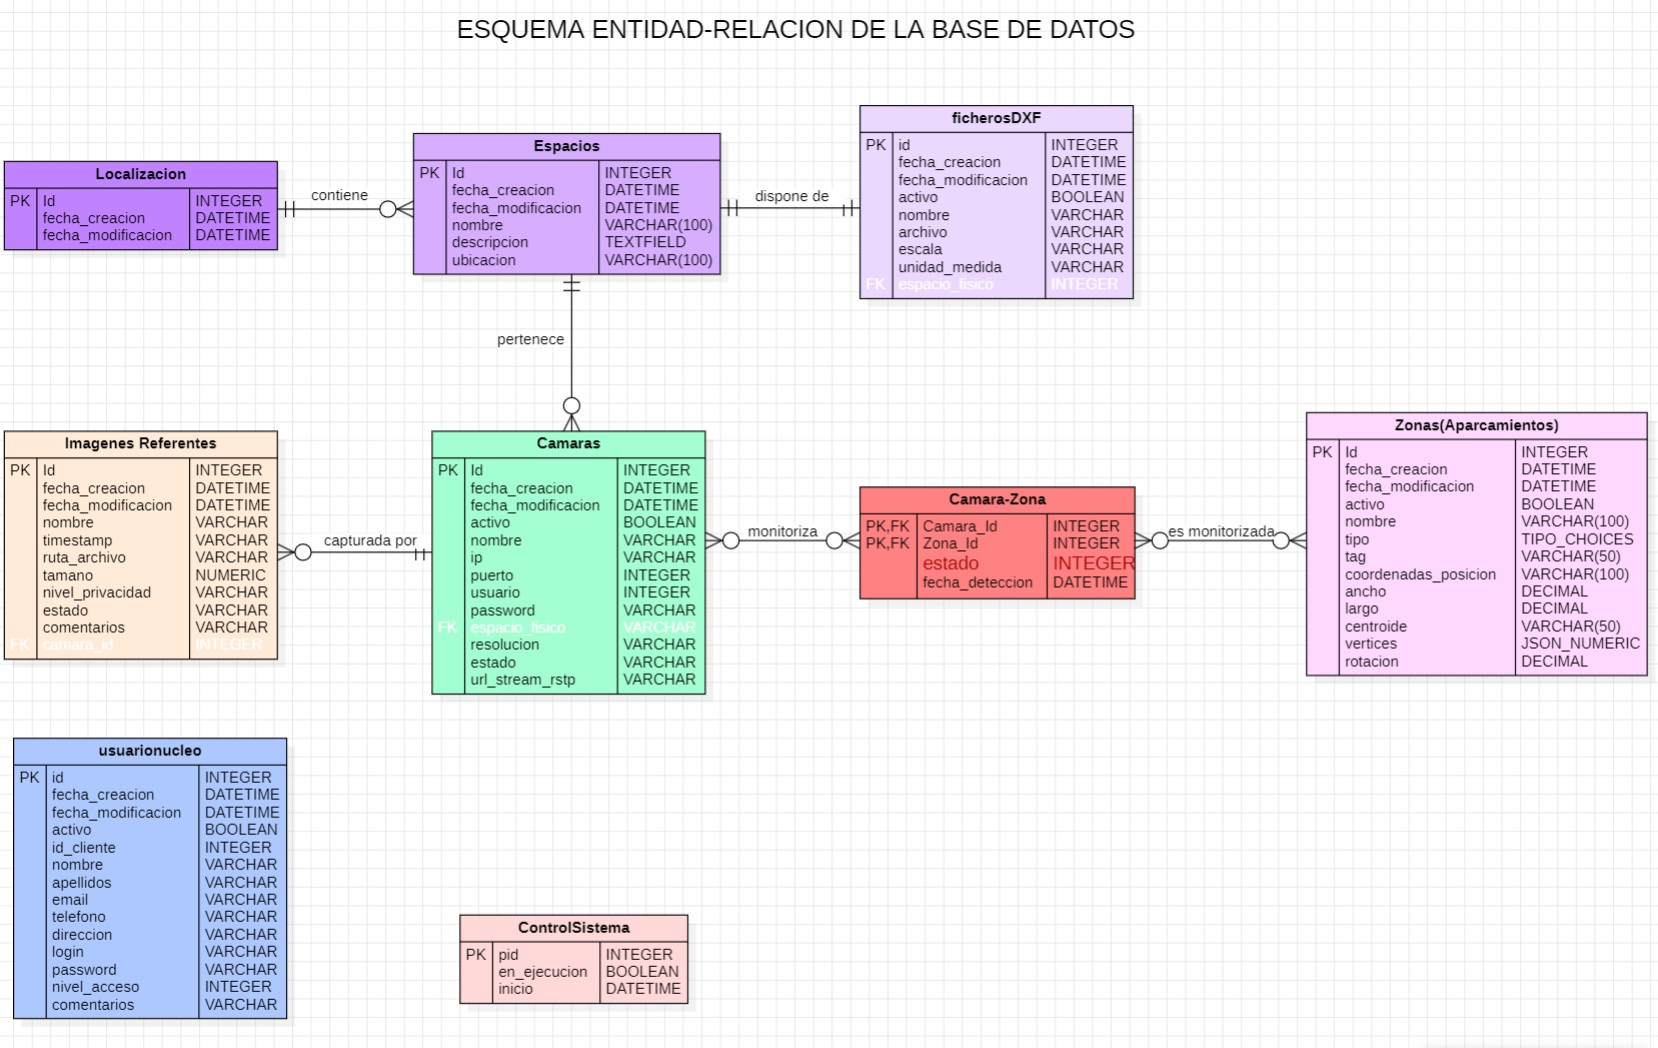
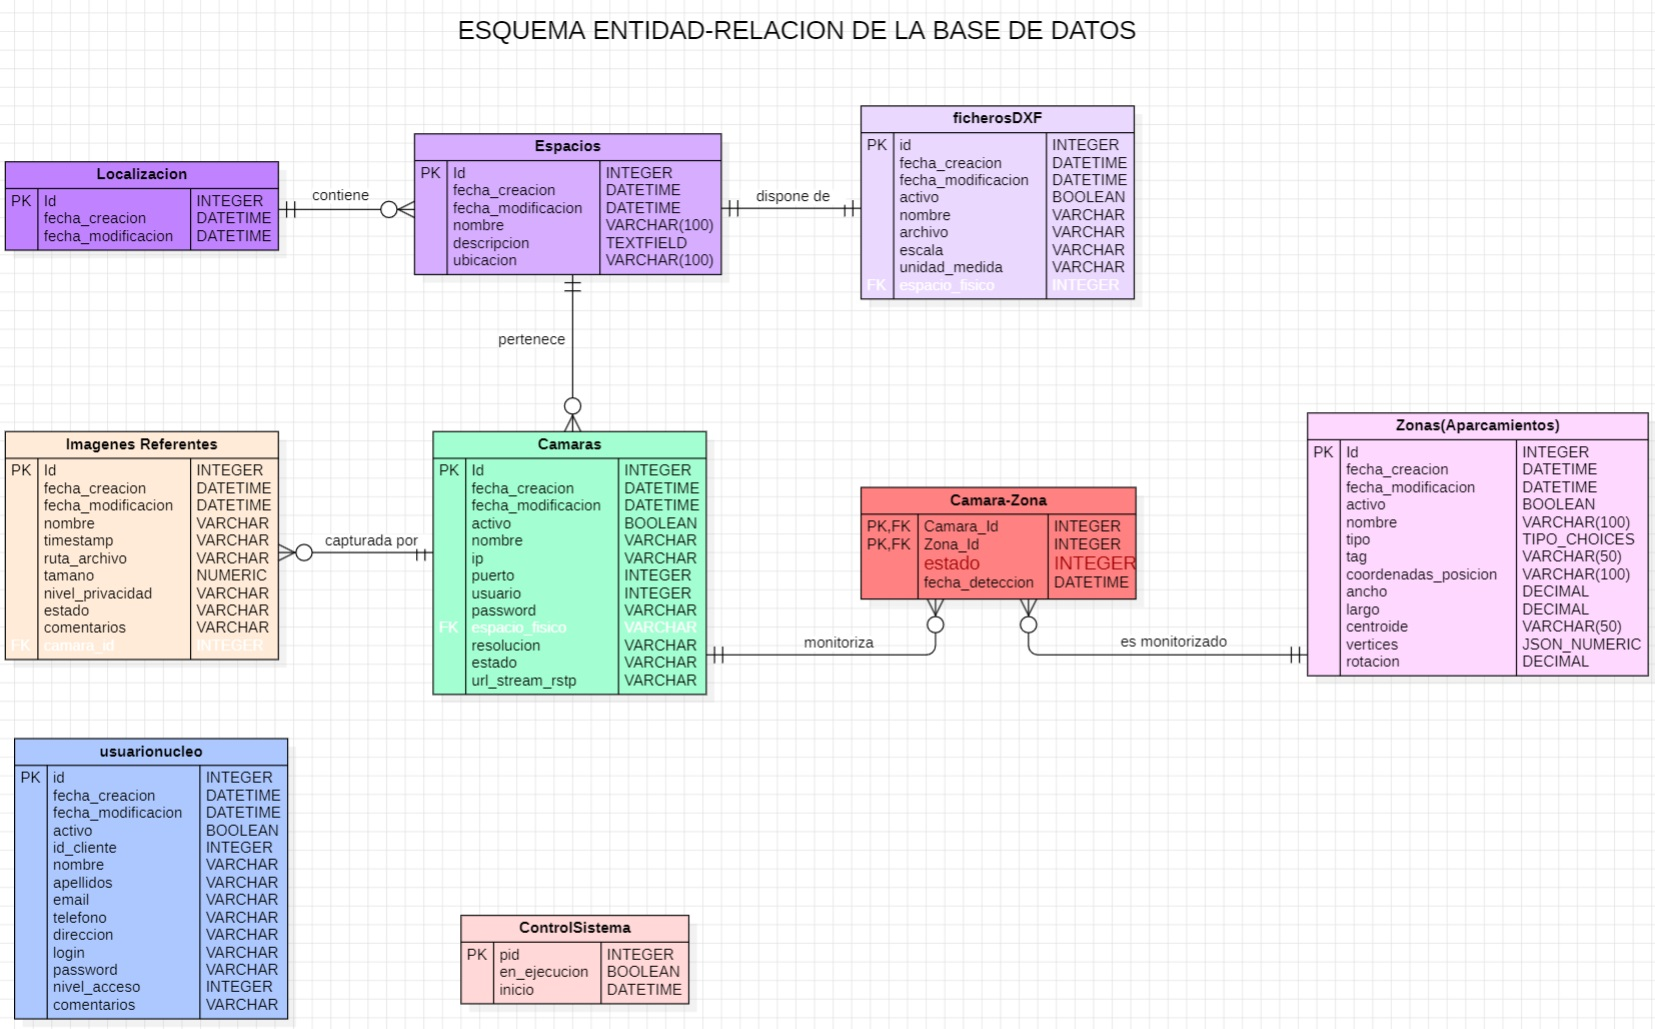
Añadidas nuevas funciones a views.py y actualizacion de diseño de BD.

diff --git a/Codigo/apps/usuarios/views.py b/Codigo/apps/usuarios/views.py
@@ -179,5 +179,107 @@ def lista_usuarios(request):
         'nivel_admin': nivel_admin,
     })
 
+def crear_usuario(request):
+    """Crea un nuevo usuario del sistema (solo para administradores)."""
+    
+    if request.session.get('usuario_nivel', 0) != 2:
+        messages.error(request, 'Solo los administradores pueden crear usuarios.')
+        return redirect('usuarios:lista')
+
+    if request.method == 'POST':
+        form = UsuariosForm(request.POST)
+
+        if form.is_valid():
+            # Recuperar email/login y verificar duplicados antes de guardar
+            email = form.cleaned_data.get('email')
+            login = form.cleaned_data.get('login')
+
+            if Usuarios.objects.filter(email=email).exists():
+                form.add_error('email', 'Este correo electrónico ya está registrado.')
+                return render(request, 'usuarios/crear.html', {'form': form})
+
+            if Usuarios.objects.filter(login=login).exists():
+                form.add_error('login', 'Este nombre de usuario ya está en uso.')
+                return render(request, 'usuarios/crear.html', {'form': form})
+
+            # Guarda en memoria pero no en BD todavia
+            usuario = form.save(commit=False)
+
+            # Procesa la contraseña
+            password = form.cleaned_data.get('nueva_password')
+            if password:
+                usuario.password = make_password(password)  # Hashea la contraseña
+            else:
+                usuario.password = make_password('changeme123')  # Default si no puso nada
+
+            usuario.save()
+
+            messages.success(request, f'Usuario {usuario.nombre} creado correctamente.')
+            return redirect('usuarios:lista')
+    else:
+        form = UsuariosForm()
+
+    return render(request, 'usuarios/crear.html', {'form': form})
+    
+    
+
+def editar_usuario(request, pk):
+    """Edita un usuario existente (solo administradores)."""
+    
+    if request.session.get('usuario_nivel', 0) != 2:
+        messages.error(request, 'Solo los administradores pueden editar usuarios.')
+        return redirect('usuarios:lista')
+
+    usuario = get_object_or_404(Usuarios, pk=pk)
+
+    if request.method == 'POST':
+        form = UsuariosForm(request.POST, instance=usuario)
+
+        if form.is_valid():
+            # Recuperar email/login y verificar duplicados antes de guardar (excluyendo el propio usuario)
+            email = form.cleaned_data.get('email')
+            login = form.cleaned_data.get('login')
+            if Usuarios.objects.filter(email=email).exclude(pk=pk).exists():
+                form.add_error('email', 'Este correo electrónico ya está registrado.')
+                return render(request, 'usuarios/editar.html', {'form': form, 'usuario': usuario})
+            if Usuarios.objects.filter(login=login).exclude(pk=pk).exists():
+                form.add_error('login', 'Este nombre de usuario ya está en uso.')
+                return render(request, 'usuarios/editar.html', {'form': form, 'usuario': usuario})
+
+            # Guarda en memoria sin commit
+            usuario = form.save(commit=False)
+
+            # Solo actualiza password si se proporciono una nueva
+            nueva_password = form.cleaned_data.get('nueva_password')
+            if nueva_password:
+                usuario.password = make_password(nueva_password)
+            # Si esta vacio, NO tocamos el password actual
+
+            usuario.save()
+
+            messages.success(request, f'Usuario {usuario.nombre} actualizado correctamente.')
+            return redirect('usuarios:lista')
+    else:
+        form = UsuariosForm(instance=usuario)
+
+    return render(request, 'usuarios/editar.html', {
+        'form': form,
+        'usuario': usuario
+    })
+    
+    
+def eliminar_usuario(request, pk):
+    """Elimina un usuario (solo administradores).""" 
+    
+    if request.session.get('usuario_nivel', 0) != 2:
+        messages.error(request, 'Solo los administradores pueden eliminar usuarios.')
+        return redirect('usuarios:lista')
+
+    usuario = get_object_or_404(Usuarios, pk=pk)
+    nombre = usuario.nombre
+    usuario.delete()
+
+    messages.success(request, f'Usuario {nombre} eliminado correctamente.')
+    return redirect('usuarios:lista')
 
 
